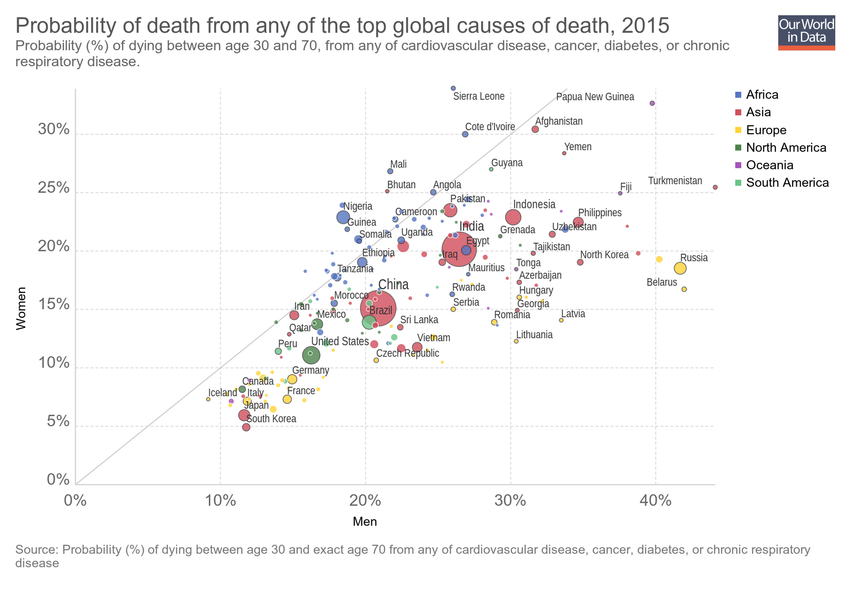
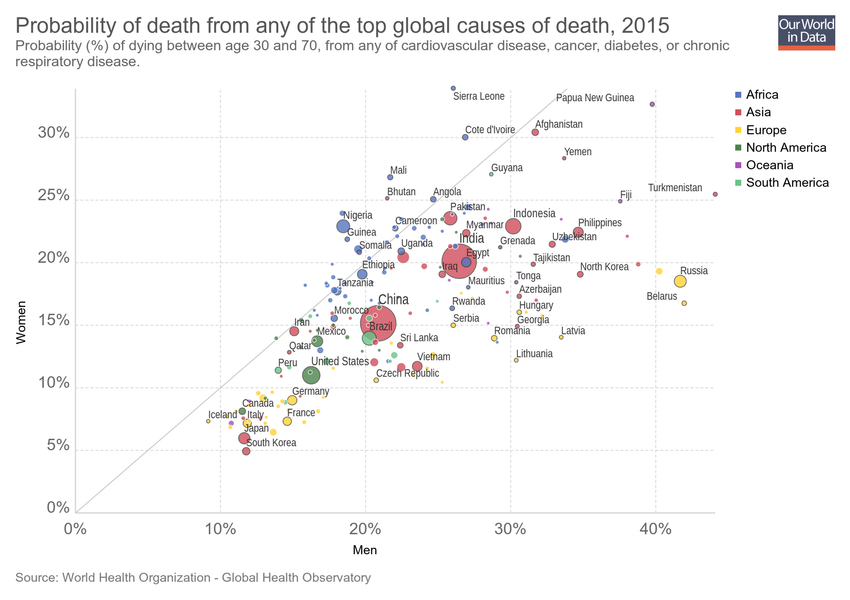
Updating chart probability-of-death-from-any-of-the-top-global-causes-of-death

diff --git a/grapher/probability-of-death-from-any-of-the-top-global-causes-of-death.html b/grapher/probability-of-death-from-any-of-the-top-global-causes-of-death.html
@@ -1,4 +1,4 @@
-<!doctype html><html><head><meta name="viewport" content="width=device-width, initial-scale=1" /><title>Probability of death from any of the top global causes of death - Our World in Data</title><meta name="description" content="Probability (%) of dying between age 30 and 70, from any of cardiovascular disease, cancer, diabetes, or chronic respiratory disease." /><link rel="canonical" href="https://ourworldindata.org/grapher/probability-of-death-from-any-of-the-top-global-causes-of-death" /><meta property="fb:app_id" content="1149943818390250" /><meta property="og:url" content="https://ourworldindata.org/grapher/probability-of-death-from-any-of-the-top-global-causes-of-death" /><meta property="og:title" content="Probability of death from any of the top global causes of death" /><meta property="og:description" content="Probability (%) of dying between age 30 and 70, from any of cardiovascular disease, cancer, diabetes, or chronic respiratory disease." /><meta property="og:image" content="https://ourworldindata.org/grapher/exports/probability-of-death-from-any-of-the-top-global-causes-of-death.png?v=1" /><meta property="og:image:width" content="850" /><meta property="og:image:height" content="600" /><meta property="og:site_name" content="Our World in Data" /><meta name="twitter:card" content="summary_large_image" /><meta name="twitter:site" content="@OurWorldInData" /><meta name="twitter:creator" content="@OurWorldInData" /><meta name="twitter:title" content="Probability of death from any of the top global causes of death" /><meta name="twitter:description" content="Probability (%) of dying between age 30 and 70, from any of cardiovascular disease, cancer, diabetes, or chronic respiratory disease." /><meta name="twitter:image" content="https://ourworldindata.org/grapher/exports/probability-of-death-from-any-of-the-top-global-causes-of-death.png?v=1" /><style>
+<!doctype html><html><head><meta name="viewport" content="width=device-width, initial-scale=1" /><title>Probability of death from any of the top global causes of death - Our World in Data</title><meta name="description" content="Probability (%) of dying between age 30 and 70, from any of cardiovascular disease, cancer, diabetes, or chronic respiratory disease." /><link rel="canonical" href="https://ourworldindata.org/grapher/probability-of-death-from-any-of-the-top-global-causes-of-death" /><meta property="fb:app_id" content="1149943818390250" /><meta property="og:url" content="https://ourworldindata.org/grapher/probability-of-death-from-any-of-the-top-global-causes-of-death" /><meta property="og:title" content="Probability of death from any of the top global causes of death" /><meta property="og:description" content="Probability (%) of dying between age 30 and 70, from any of cardiovascular disease, cancer, diabetes, or chronic respiratory disease." /><meta property="og:image" content="https://ourworldindata.org/grapher/exports/probability-of-death-from-any-of-the-top-global-causes-of-death.png?v=4" /><meta property="og:image:width" content="850" /><meta property="og:image:height" content="600" /><meta property="og:site_name" content="Our World in Data" /><meta name="twitter:card" content="summary_large_image" /><meta name="twitter:site" content="@OurWorldInData" /><meta name="twitter:creator" content="@OurWorldInData" /><meta name="twitter:title" content="Probability of death from any of the top global causes of death" /><meta name="twitter:description" content="Probability (%) of dying between age 30 and 70, from any of cardiovascular disease, cancer, diabetes, or chronic respiratory disease." /><meta name="twitter:image" content="https://ourworldindata.org/grapher/exports/probability-of-death-from-any-of-the-top-global-causes-of-death.png?v=4" /><style>
         html, body {
             height: 100%;
             margin: 0;
@@ -20,8 +20,8 @@
         }
     </style><noscript><style>
                     figure { display: none !important; }
-                </style></noscript><link rel="stylesheet" href="https://ourworldindata.org/grapher/assets/commons.bundle.b9f051796dbbbb7e5139.css" /><link rel="preload" href="/grapher/data/variables/95510+95509+72+123.json?v=1" as="fetch" crossorigin /></head><body class="singleChart"><figure data-grapher-src="/grapher/probability-of-death-from-any-of-the-top-global-causes-of-death"></figure><noscript id="fallback"><img src="/grapher/exports/probability-of-death-from-any-of-the-top-global-causes-of-death.svg" /><p>Interactive visualization requires JavaScript</p></noscript><script src="https://cdn.polyfill.io/v2/polyfill.min.js?features=es6,fetch"></script><script src="https://ourworldindata.org/grapher/assets/commons.bundle.b9f051796dbbbb7e5139.js"></script><script src="https://ourworldindata.org/grapher/assets/charts.bundle.b9f051796dbbbb7e5139.js"></script><script>
-        var jsonConfig = {"map":{"projection":"World","colorSchemeLabels":[],"colorSchemeValues":[],"customNumericColors":[],"customCategoryColors":{},"customCategoryLabels":{},"customHiddenCategories":{}},"tab":"chart","slug":"probability-of-death-from-any-of-the-top-global-causes-of-death","type":"ScatterPlot","title":"Probability of death from any of the top global causes of death","xAxis":{"min":0,"scaleType":"linear"},"yAxis":{"min":0,"scaleType":"linear"},"maxTime":2015,"minTime":2015,"version":1,"subtitle":"Probability (%) of dying between age 30 and 70, from any of cardiovascular disease, cancer, diabetes, or chronic respiratory disease.","hasMapTab":false,"stackMode":"absolute","dimensions":[{"display":{"name":"Women","shortUnit":"%"},"property":"y","variableId":95510},{"display":{"name":"Men","unit":"%"},"property":"x","variableId":95509},{"display":{},"property":"size","variableId":72},{"display":{},"property":"color","variableId":123}],"isAutoSlug":true,"hasChartTab":true,"isPublished":true,"selectedData":[],"addCountryMode":"add-country","comparisonLine":{},"id":2946};
+                </style></noscript><link rel="stylesheet" href="https://ourworldindata.org/grapher/assets/commons.bundle.b9f051796dbbbb7e5139.css" /><link rel="preload" href="/grapher/data/variables/95510+95509+72+123.json?v=4" as="fetch" crossorigin /></head><body class="singleChart"><figure data-grapher-src="/grapher/probability-of-death-from-any-of-the-top-global-causes-of-death"></figure><noscript id="fallback"><img src="/grapher/exports/probability-of-death-from-any-of-the-top-global-causes-of-death.svg" /><p>Interactive visualization requires JavaScript</p></noscript><script src="https://cdn.polyfill.io/v2/polyfill.min.js?features=es6,fetch"></script><script src="https://ourworldindata.org/grapher/assets/commons.bundle.b9f051796dbbbb7e5139.js"></script><script src="https://ourworldindata.org/grapher/assets/charts.bundle.b9f051796dbbbb7e5139.js"></script><script>
+        var jsonConfig = {"id":2946,"map":{"projection":"World","colorSchemeLabels":[],"colorSchemeValues":[],"customNumericColors":[],"customCategoryColors":{},"customCategoryLabels":{},"customHiddenCategories":{}},"tab":"chart","slug":"probability-of-death-from-any-of-the-top-global-causes-of-death","type":"ScatterPlot","title":"Probability of death from any of the top global causes of death","xAxis":{"min":0,"scaleType":"linear"},"yAxis":{"min":0,"scaleType":"linear"},"maxTime":2015,"minTime":2015,"version":4,"subtitle":"Probability (%) of dying between age 30 and 70, from any of cardiovascular disease, cancer, diabetes, or chronic respiratory disease.","hasMapTab":false,"stackMode":"absolute","dimensions":[{"display":{"name":"Women","shortUnit":"%"},"property":"y","variableId":95510},{"display":{"name":"Men","unit":"%"},"property":"x","variableId":95509},{"display":{},"property":"size","variableId":72},{"display":{},"property":"color","variableId":123}],"sourceDesc":"World Health Organization - Global Health Observatory","hasChartTab":true,"isPublished":true,"selectedData":[],"addCountryMode":"add-country","comparisonLine":{}};
         var figure = document.getElementsByTagName("figure")[0];
         try {
             window.App = {};
